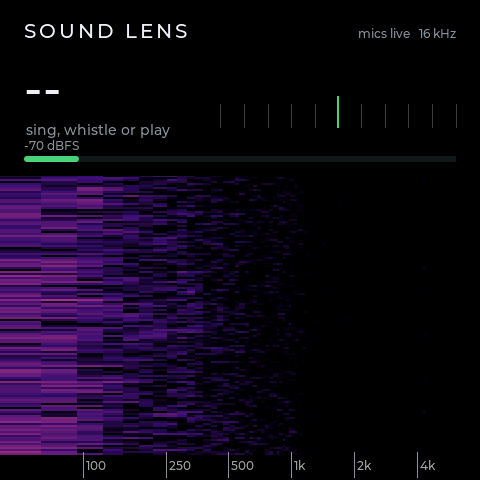
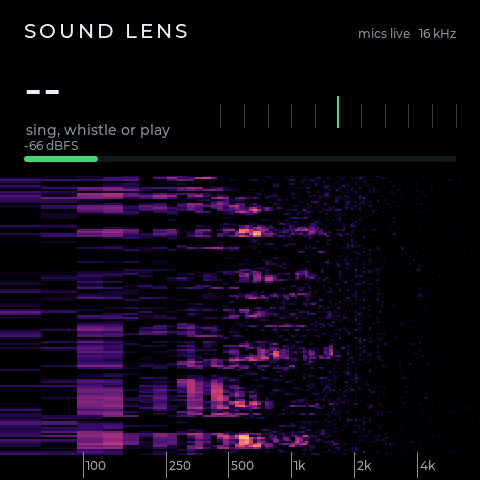
Sound Lens: let the background floor fall gradually
Falling instantly to each frame's minimum parked the floor in the deep
dips of the noise, so a quiet room still lit up the whole waterfall.
Falling ~6 dB/s and rising ~1.5 dB/s settles it near the 20th
percentile: on hardware the quiet room goes dark and speech stands out.

Claude-Session: https://claude.ai/code/session_018hkRZ6tRFJFUuxFqp66arZ

Changed region(s): [[0.0, 0.3125, 0.8125, 0.9688], [0.0625, 0.2812, 0.1562, 0.3125], [0.8125, 0.375, 0.8438, 0.4062]]

diff --git a/firmware/devdeck/main/lens.c b/firmware/devdeck/main/lens.c
@@ -164,7 +164,7 @@ static void audio_task(void *arg)
             mag[k] = log2q8(m + 1);
         }
         // Each column shows energy above its own steady background (fans, hum, mic noise), so a quiet room
-        // stays dark and new sounds pop. The background falls instantly and creeps up ~1.5 dB/s, so a held
+        // stays dark and new sounds pop. The background falls ~6 dB/s and creeps up ~1.5 dB/s, so a held
         // note fades after ~20 s; the tuner is unaffected.
         uint32_t w = row_w;
         if (w - row_r < ROWQ) {
@@ -173,7 +173,7 @@ static void audio_task(void *arg)
                 int m = 0;
                 for (int k = col_lo[c]; k < col_hi[c]; k++) if (mag[k] > m) m = mag[k];
                 int f = col_floor[c];
-                f = !f || m < f ? m : f + 2;
+                f = !f ? m : m < f ? f - 8 : f + 2;          // settles near the 20th percentile of the noise
                 col_floor[c] = f;
                 int idx = (m - f - 256) * 255 / (6 * 256);   // 6 dB of flutter hidden, then 36 dB of range
                 row[c] = cmap[idx < 0 ? 0 : idx > 255 ? 255 : idx];
